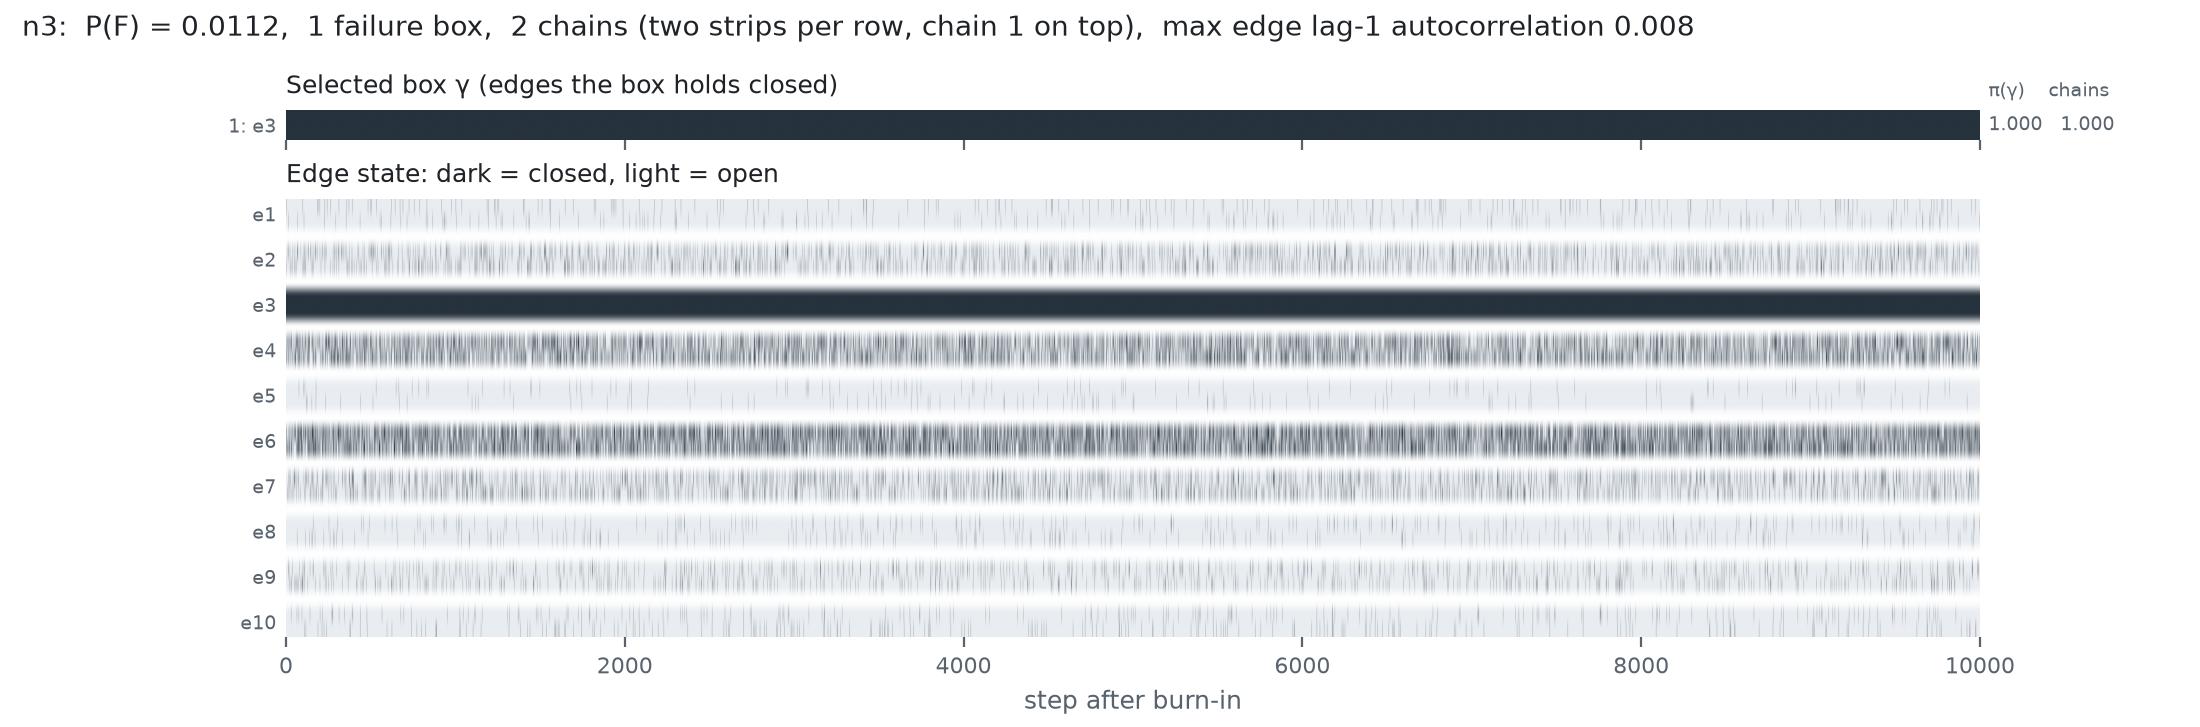
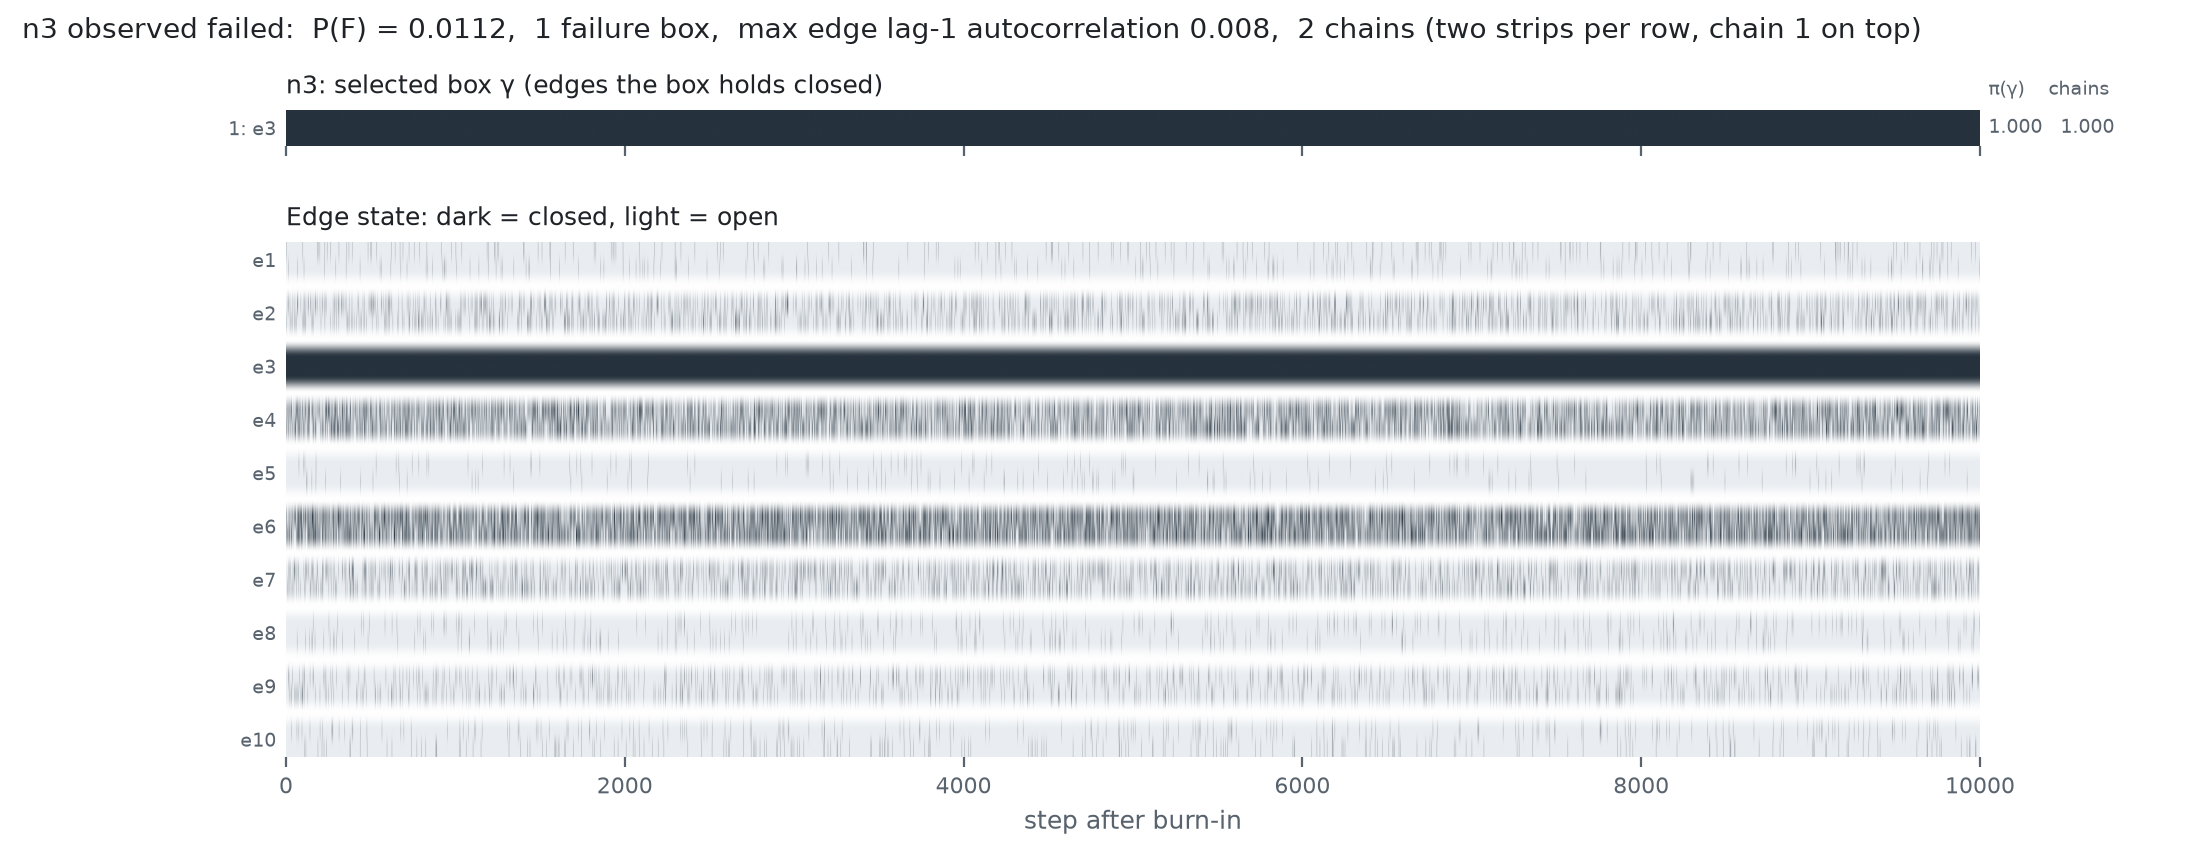
Add MCMC with several observed systems, with toy-ca cases
init_multi starts each chain in the intersection of one box per observed
system; step_multi sweeps the systems one by one, redrawing that system's
gamma, proposing inside every system's current box and accepting with the
product of overlap counts. With one system it reduces to proposal + accept.

Tests check the start points, an inconsistent pair of observations, the
reduction to the single-system step, and the two-system target on Figure 1.
demos/toy_ca_mcmc/run_multi.py runs n4+n6 and n4+n6+n7 observed failed
against exact enumeration; plot_traces.py draws one gamma panel per system.

diff --git a/demos/toy_ca_mcmc/plot_traces.py b/demos/toy_ca_mcmc/plot_traces.py
@@ -1,11 +1,12 @@
-"""Trace plots of the selected box (gamma) and every edge state, one figure per origin
-(traces_<origin>.png, from traces.pt).
+"""Trace plots of the selected boxes (gamma) and every edge state, one figure per case:
+traces_<origin>.png from traces.pt (one observed system) and traces_<n4+n6...>.png from
+traces_multi.pt (several), whichever exist.
 
-Both panels use the same strips: one row per box or edge, one strip per chain (chain 1 on
+All panels use the same strips: one row per box or edge, one strip per chain (chain 1 on
 top), dark over the steps where it holds.
-    Top, selected box:  dark where the chain proposed from that box. The right margin gives
-                        the exact pi(gamma = r) and the share of steps both chains spent there.
-    Bottom, edge state: dark = closed, light = open.
+    Selected box, one panel per observed system: dark where the chain held that box. The right
+        margin gives the exact pi(gamma = r) and the share of steps both chains spent there.
+    Edge state: dark = closed, light = open.
 A well-mixed chain visits the boxes in proportion to pi(gamma); long solid blocks show a
 chain staying in one box, and its free edges turn to speckle while the box's edges stay dark.
 
@@ -19,9 +20,6 @@ import torch
 from matplotlib.colors import ListedColormap
 
 HERE = Path(__file__).resolve().parent
-data = torch.load(HERE / "traces.pt")
-edges, traces, results = data["edges"], data["traces"], data["results"]
-
 DARK, LIGHT, GAP, INK, MUTED = "#26323d", "#e9edf1", "#ffffff", "#1f2328", "#59636e"
 cmap = ListedColormap([LIGHT, DARK])
 cmap.set_bad(GAP)
@@ -35,44 +33,57 @@ def strips(ax, dark, labels):
         img[k * (C + 1): k * (C + 1) + C] = dark[:, :, k].T
     ax.imshow(img, aspect="auto", cmap=cmap, vmin=0, vmax=1, interpolation="antialiased",
               extent=(0, T, img.shape[0], 0))
-    ax.set_yticks([k * (C + 1) + C / 2 for k in range(K)], labels, fontsize=7, color=MUTED)
+    ys = [k * (C + 1) + C / 2 for k in range(K)]
+    ax.set_yticks(ys, labels, fontsize=7, color=MUTED)
     ax.tick_params(axis="y", length=0)
     ax.tick_params(axis="x", colors=MUTED, labelsize=8)
     for s in ax.spines.values():
         s.set_visible(False)
-    return [k * (C + 1) + C / 2 for k in range(K)]
+    return ys
 
 
-for origin, tr in traces.items():
-    x, gamma = tr["x"].numpy(), tr["gamma"].long()
+def plot(name, x, gammas, boxes, label_exact, systems, title, edges):
+    """x (T, C, n) edge states, 1 = open; gammas, boxes, label_exact: one entry per system."""
     T, C, n = x.shape
-    R = len(tr["boxes"])
-    rows_g, rows_x = R * (C + 1) - 1, n * (C + 1) - 1
-    fig, (ax_g, ax_x) = plt.subplots(
-        2, 1, figsize=(11, 1.0 + 0.085 * (rows_g + rows_x)), sharex=True,
-        gridspec_kw={"height_ratios": [rows_g, rows_x], "hspace": 0.25})
+    rows = [len(b) * (C + 1) - 1 for b in boxes] + [n * (C + 1) - 1]
+    fig, axes = plt.subplots(len(rows), 1, figsize=(11, 1.0 + 0.085 * sum(rows) + 0.3 * len(rows)),
+                             sharex=True, gridspec_kw={"height_ratios": rows, "hspace": 0.35})
     fig.patch.set_facecolor(GAP)
-
-    selected = torch.nn.functional.one_hot(gamma, R).numpy().astype(bool)     # (T, C, R)
-    box_labels = [f"{r + 1}: {' '.join(b)}" for r, b in enumerate(tr["boxes"])]
-    ys = strips(ax_g, selected, box_labels)
-    share = selected.mean(axis=(0, 1))
-    for y, p, q in zip(ys, tr["label_exact"], share):
-        ax_g.text(T * 1.005, y, f"{p:.3f}   {q:.3f}", va="center", fontsize=7, color=MUTED)
-    ax_g.text(T * 1.005, -0.6, "π(γ)    chains", va="bottom", fontsize=7, color=MUTED)
-    ax_g.set_title("Selected box γ (edges the box holds closed)", loc="left", fontsize=9, color=INK)
-
-    strips(ax_x, x == 0, edges)
-    ax_x.set_title("Edge state: dark = closed, light = open", loc="left", fontsize=9, color=INK)
-    ax_x.set_xlabel("step after burn-in", fontsize=9, color=MUTED)
-
-    r = results[origin]
-    fig.suptitle(f"{origin}:  P(F) = {r['P_F']:.4f},  {R} failure box{'es' * (R > 1)},  {C} chains "
-                 f"(two strips per row, chain 1 on top),  max edge lag-1 autocorrelation "
-                 f"{r['rho1_edge_max']:.3f}", x=0.01, ha="left", fontsize=10, color=INK)
+    for ax, gamma, b, pi, system in zip(axes, gammas, boxes, label_exact, systems):
+        selected = torch.nn.functional.one_hot(gamma.long(), len(b)).numpy().astype(bool)
+        ys = strips(ax, selected, [f"{r + 1}: {' '.join(e)}" for r, e in enumerate(b)])
+        for y, p, q in zip(ys, pi, selected.mean(axis=(0, 1))):
+            ax.text(T * 1.005, y, f"{p:.3f}   {q:.3f}", va="center", fontsize=7, color=MUTED)
+        ax.text(T * 1.005, -0.6, "π(γ)    chains", va="bottom", fontsize=7, color=MUTED)
+        ax.set_title(f"{system}: selected box γ (edges the box holds closed)", loc="left",
+                     fontsize=9, color=INK)
+    strips(axes[-1], x == 0, edges)
+    axes[-1].set_title("Edge state: dark = closed, light = open", loc="left", fontsize=9, color=INK)
+    axes[-1].set_xlabel("step after burn-in", fontsize=9, color=MUTED)
+    fig.suptitle(f"{title},  {C} chains (two strips per row, chain 1 on top)",
+                 x=0.01, ha="left", fontsize=10, color=INK)
     fig.subplots_adjust(left=0.13, right=0.90, top=1 - 0.55 / fig.get_figheight(),
                         bottom=0.45 / fig.get_figheight())
-    out = HERE / f"traces_{origin}.png"
+    out = HERE / f"traces_{name}.png"
     fig.savefig(out, dpi=200, facecolor=GAP)
     plt.close(fig)
     print("wrote", out)
+
+
+if (HERE / "traces.pt").exists():                                       # one observed system
+    data = torch.load(HERE / "traces.pt")
+    for o, tr in data["traces"].items():
+        r = data["results"][o]
+        title = (f"{o} observed failed:  P(F) = {r['P_F']:.4f},  {r['n_refs']} failure "
+                 f"box{'es' * (r['n_refs'] > 1)},  max edge lag-1 autocorrelation {r['rho1_edge_max']:.3f}")
+        plot(o, tr["x"].numpy(), [tr["gamma"]], [tr["boxes"]], [tr["label_exact"]], [o], title,
+             data["edges"])
+
+if (HERE / "traces_multi.pt").exists():                                 # several observed systems
+    data = torch.load(HERE / "traces_multi.pt")
+    for name, tr in data["traces"].items():
+        r = data["results"][name]
+        title = (f"{', '.join(r['systems'])} observed failed:  P(all fail) = {r['P_all_fail']:.4f},  "
+                 f"boxes {r['n_refs']},  max edge lag-1 autocorrelation {r['rho1_edge_max']:.3f}")
+        plot(name, tr["x"].numpy(), tr["gamma"], tr["boxes"], tr["label_exact"], tr["systems"],
+             title, data["edges"])

diff --git a/rsr/mcmc.py b/rsr/mcmc.py
@@ -10,6 +10,9 @@ so every step processes all chains at once.
 
 One step: x_new, gamma = proposal(x, ...); x, c, ok = accept(x_new, x, c, ...).
 run() repeats this and returns the traces; gamma and ok feed the monitoring functions.
+
+Several observed systems: x, gamma, c = init_multi(refs_list, ...), then
+x, gamma, c, ok = step_multi(x, gamma, c, refs_list, ...) per sweep; gamma, c, ok are (C, S).
 """
 
 import time
@@ -26,13 +29,23 @@ def _membership(x, refs):
     return res["violations_upper"] == 0                        # (C, R)
 
 
-def init(refs, n_chain, upper=False):
-    """Start chain k at the corner of box k mod R (Eq. 58): its lowest allowed
-    state per component for upper reference states, its highest for lower ones."""
-    box = refs[torch.arange(n_chain) % len(refs)].int()        # (C, n, M)
+def _corner(box, upper):
+    """One-hot corner of each box (C, n, M): the lowest allowed state per component
+    for upper reference states, the highest for lower ones."""
     M = box.shape[2]
     corner = box.argmax(dim=2) if upper else M - 1 - box.flip(2).argmax(dim=2)
-    x = torch.nn.functional.one_hot(corner, M).int()
+    return torch.nn.functional.one_hot(corner, M).int()
+
+
+def _draw(w, generator=None):
+    """x ~ w componentwise, for weights w (C, n, M); returns one-hot (C, n, M)."""
+    draw = torch.multinomial(w.reshape(-1, w.shape[2]).double(), 1, generator=generator)
+    return torch.nn.functional.one_hot(draw.reshape(w.shape[:2]), w.shape[2]).int()
+
+
+def init(refs, n_chain, upper=False):
+    """Start chain k at the corner of box k mod R (Eq. 58)."""
+    x = _corner(refs[torch.arange(n_chain) % len(refs)].int(), upper)
     return x, _membership(x, refs).sum(dim=1)
 
 
@@ -42,11 +55,7 @@ def proposal(x, refs, probs, generator=None):
     Returns x' and gamma (C,), the box index each chain proposed from."""
     chi = _membership(x, refs)
     gamma = torch.multinomial(chi.double(), 1, generator=generator).squeeze(1)
-
-    w = probs[None, :, :] * refs[gamma]                        # (C, n, M)
-    draw = torch.multinomial(w.reshape(-1, w.shape[2]).double(), 1, generator=generator)
-    x_new = torch.nn.functional.one_hot(draw.reshape(x.shape[:2]), x.shape[2]).int()
-    return x_new, gamma
+    return _draw(probs[None, :, :] * refs[gamma], generator), gamma
 
 
 def accept(x_new, x, c, refs, u=None, generator=None):
@@ -57,6 +66,46 @@ def accept(x_new, x, c, refs, u=None, generator=None):
         u = torch.rand(len(x), dtype=torch.float64, generator=generator)
     ok = u < (c / c_new).clamp(max=1.0)
     return torch.where(ok[:, None, None], x_new, x), torch.where(ok, c_new, c), ok
+
+
+# --- several observed systems: refs_list holds each system's reference states ---
+
+def _intersection(refs_list, gamma):
+    """The box each chain is held in: the intersection of every system's current box, (C, n, M)."""
+    box = refs_list[0][gamma[:, 0]].int()
+    for s in range(1, len(refs_list)):
+        box = box * refs_list[s][gamma[:, s]]
+    return box
+
+
+def init_multi(refs_list, n_chain, upper=False):
+    """Start chain k at the corner of the intersection of box k mod R_s of every system s.
+    Returns x, gamma (C, S) and c (C, S), c[:, s] = number of system s's boxes containing x."""
+    gamma = torch.stack([torch.arange(n_chain) % len(r) for r in refs_list], dim=1)
+    box = _intersection(refs_list, gamma)
+    if (box.sum(dim=2) == 0).any():
+        raise ValueError("the starting boxes of the systems do not intersect")
+    x = _corner(box, upper)
+    return x, gamma, torch.stack([_membership(x, r).sum(dim=1) for r in refs_list], dim=1)
+
+
+def step_multi(x, gamma, c, refs_list, probs, generator=None):
+    """One sweep over the systems. For each system s in turn: redraw gamma_s uniformly from
+    its boxes containing x (C.1), propose x' ~ p(. | x' in every system's current box), and
+    accept with min(1, prod_s c_s(x) / c_s(x')). With one system this is proposal + accept.
+    Returns x, gamma, c and ok (C, S), whether the move for each system was accepted."""
+    gamma, oks = gamma.clone(), []
+    for s, refs in enumerate(refs_list):
+        chi = _membership(x, refs)
+        gamma[:, s] = torch.multinomial(chi.double(), 1, generator=generator).squeeze(1)
+        x_new = _draw(probs[None, :, :] * _intersection(refs_list, gamma), generator)
+
+        c_new = torch.stack([_membership(x_new, r).sum(dim=1) for r in refs_list], dim=1)
+        u = torch.rand(len(x), dtype=torch.float64, generator=generator)
+        ok = u < (c.prod(dim=1) / c_new.prod(dim=1)).clamp(max=1.0)
+        x, c = torch.where(ok[:, None, None], x_new, x), torch.where(ok[:, None], c_new, c)
+        oks.append(ok)
+    return x, gamma, c, torch.stack(oks, dim=1)
 
 
 def run(refs, probs, n_chain, n_step, n_burn=0, n_thin=1, upper=False, generator=None):

diff --git a/demos/toy_ca_mcmc/run_multi.py b/demos/toy_ca_mcmc/run_multi.py
@@ -1,0 +1,91 @@
+"""rsr-mcmc on toy-ca with several systems observed failed: n4 and n6, then n4, n6 and n7.
+
+Each sweep processes the observed systems one by one (mcmc.step_multi): redraw that system's
+box gamma_s, propose inside every system's current box, accept by the product of overlap
+counts. The chains target p(x) restricted to the states that fail every observed system's
+failure boxes. All 1024 edge configurations are enumerated for the exact answers.
+
+    PYTHONPATH=. python demos/toy_ca_mcmc/run_multi.py      (then plot_traces.py)
+"""
+import json
+import time
+from pathlib import Path
+
+import torch
+
+from rsr import mcmc
+
+CASES = [("n4", "n6"), ("n4", "n6", "n7")]
+N_CHAIN, N_BURN, N_KEEP = 2, 200, 10_000
+HERE = Path(__file__).resolve().parent
+data = torch.load(HERE / "toy_ca.pt")
+probs, edges = data["probs"], data["edges"]
+states = (torch.arange(1024)[:, None] >> torch.arange(9, -1, -1)) & 1   # (1024, 10), as exported
+p_x = probs[torch.arange(10), states].prod(dim=1)
+
+
+def exact(refs_list, systems):
+    """pi(x) on the joint union, pi(gamma_s = r) per system, P(e_i closed | obs), P(all fail)."""
+    onehot = torch.nn.functional.one_hot(states, 2).int()
+    chis = [mcmc._membership(onehot, r) for r in refs_list]                 # (1024, R_s) each
+    inside = torch.stack([chi.any(dim=1) for chi in chis]).all(dim=0)
+    w = p_x * inside / (p_x * inside).sum()
+    return {
+        "P_all_fail": p_x[torch.stack([s == 0 for s in systems]).all(dim=0)].sum().item(),
+        "P_joint_union": (p_x * inside).sum().item(),
+        "label": [((w / chi.sum(dim=1).clamp(min=1))[:, None] * chi).sum(dim=0) for chi in chis],
+        "closed": (w[:, None] * (states == 0)).sum(dim=0),
+    }
+
+
+results, traces = {}, {}
+print(f"{N_CHAIN} chains, burn-in {N_BURN} sweeps, {N_KEEP} kept sweeps\n")
+for case in CASES:
+    name = "+".join(case)
+    refs_list = [data["refs_lower"][o] for o in case]
+    ex = exact(refs_list, [data["system"][o] for o in case])
+
+    g = torch.Generator().manual_seed(0)
+    t0 = time.perf_counter()
+    x, gamma, c = mcmc.init_multi(refs_list, N_CHAIN)
+    xs, gammas, oks = [], [], []
+    for t in range(N_BURN + N_KEEP):
+        x, gamma, c, ok = mcmc.step_multi(x, gamma, c, refs_list, probs, g)
+        if t >= N_BURN:
+            xs.append(x.argmax(dim=2).to(torch.int8))
+            gammas.append(gamma.to(torch.int16))
+            oks.append(ok)
+    sec = time.perf_counter() - t0
+    x, gamma, ok = torch.stack(xs), torch.stack(gammas), torch.stack(oks)  # (T, C, 10), (T, C, S) x2
+
+    closed = (x == 0).double().mean(dim=(0, 1))
+    rho_edge = torch.stack([mcmc.autocorrelation(x[..., i], max_lag=1)[0] for i in range(10)]).nan_to_num()
+    labels = [mcmc.label_frequency(gamma[..., s].long(), len(r)).mean(dim=0) for s, r in enumerate(refs_list)]
+    r = {
+        "systems": list(case), "n_refs": [len(r) for r in refs_list],
+        "P_all_fail": ex["P_all_fail"], "P_joint_union": ex["P_joint_union"],
+        "acceptance": [mcmc.acceptance_rate(ok[..., s]).mean().item() for s in range(len(case))],
+        "label_err": [(l - e).abs().max().item() for l, e in zip(labels, ex["label"])],
+        "rho1_edge_max": rho_edge.max().item(),
+        "closed_mcmc": closed.tolist(), "closed_exact": ex["closed"].tolist(),
+        "closed_err": (closed - ex["closed"]).abs().max().item(),
+        "ms_per_sweep": 1e3 * sec / (N_BURN + N_KEEP),
+    }
+    results[name] = r
+    traces[name] = {
+        "x": x, "gamma": [gamma[..., s] for s in range(len(case))],
+        "boxes": [[[e for e, free in zip(edges, refs[k, :, 1]) if not free] for k in range(len(refs))]
+                  for refs in refs_list],
+        "label_exact": [l.tolist() for l in ex["label"]], "systems": list(case),
+    }
+    print(f"{name}: boxes {r['n_refs']}, P(all fail) {r['P_all_fail']:.4f}, "
+          f"P(joint union) {r['P_joint_union']:.4f}, {r['ms_per_sweep']:.2f} ms/sweep")
+    print(f"  acceptance per system {[round(a, 3) for a in r['acceptance']]}, "
+          f"|label - pi| per system {[round(e, 4) for e in r['label_err']]}")
+    print(f"  max edge lag-1 autocorrelation {r['rho1_edge_max']:.3f}, "
+          f"max |P(closed | obs) error| {r['closed_err']:.4f}")
+    print("  P(e_i closed | obs) exact:", dict(zip(edges, ex["closed"].numpy().round(3))))
+
+(HERE / "results_multi.json").write_text(json.dumps(results, indent=2) + "\n")
+torch.save({"edges": edges, "traces": traces, "results": results}, HERE / "traces_multi.pt")
+print(f"\nwrote {HERE / 'results_multi.json'} and traces_multi.pt")

diff --git a/tests/test_mcmc.py b/tests/test_mcmc.py
@@ -238,3 +238,55 @@ def test_run_times_each_function():
     *_, sec = run(LOWER, upper=False)
     assert set(sec) == {"init", "proposal", "accept"}
     assert sec["proposal"] > 0 and sec["accept"] > 0
+
+
+# --- several observed systems on Figure 1: LOWER is system 1's failure boxes ---
+X1_FAILS = torch.tensor([[[1, 0], [1, 1], [1, 1]]], dtype=torch.int32)         # x1 <= 0
+X1_OR_X2_FAILS = torch.tensor([
+    [[1, 0], [1, 1], [1, 1]],                                                   # x1 <= 0
+    [[1, 1], [1, 0], [1, 1]],                                                   # x2 <= 0
+], dtype=torch.int32)
+
+
+def test_init_multi_starts_in_the_intersection_of_the_boxes():
+    # chain 1: system 1 box 1 (x1 = x3 = 0) and x1 = 0 -> corner (0,1,0), in box 1 only: c = (1, 1)
+    # chain 2: system 1 box 2 (x2 = x3 = 0) and x1 = 0 -> (0,0,0), in both boxes:       c = (2, 1)
+    x, gamma, c = mcmc.init_multi([LOWER, X1_FAILS], n_chain=2)
+    assert torch.equal(x, onehot((0, 1, 0), (0, 0, 0)))
+    assert torch.equal(gamma, torch.tensor([[0, 0], [1, 0]]))
+    assert torch.equal(c, torch.tensor([[1, 1], [2, 1]]))
+
+
+def test_init_multi_rejects_observations_that_cannot_hold_together():
+    # Failure box 1 needs x1 = 0, survival box 1 needs x1 = 1: no state satisfies both.
+    import pytest
+    with pytest.raises(ValueError):
+        mcmc.init_multi([LOWER, UPPER], n_chain=1)
+
+
+def test_step_multi_with_one_system_is_proposal_then_accept():
+    x, c = mcmc.init(LOWER, n_chain=1000)
+    g1, g2 = torch.Generator().manual_seed(0), torch.Generator().manual_seed(0)
+    x_new, gamma = mcmc.proposal(x, LOWER, PROBS, g1)
+    x1, c1, ok1 = mcmc.accept(x_new, x, c, LOWER, generator=g1)
+    x2, gamma2, c2, ok2 = mcmc.step_multi(x, torch.zeros(1000, 1, dtype=torch.long), c[:, None],
+                                          [LOWER], PROBS, g2)
+    assert torch.equal(x1, x2) and torch.equal(c1, c2[:, 0]) and torch.equal(ok1, ok2[:, 0])
+    assert torch.equal(gamma, gamma2[:, 0])
+
+
+def test_step_multi_samples_p_given_both_systems_fail():
+    # System 1 fails on {000, 010, 100}; system 2 (x1 = 0 or x2 = 0) on every state with a 0
+    # in x1 or x2, which contains all three. So the target is p restricted to {000, 010, 100}:
+    #   pi(000) = 0.001 / 0.019 = 1/19,  pi(010) = pi(100) = 0.009 / 0.019 = 9/19.
+    # 000 has c = (2, 2), 010 and 100 have c = (1, 1): the acceptance must use both counts.
+    refs_list = [LOWER, X1_OR_X2_FAILS]
+    g = torch.Generator().manual_seed(0)
+    x, gamma, c = mcmc.init_multi(refs_list, n_chain=10_000)
+    xs = []
+    for t in range(20):
+        x, gamma, c, _ = mcmc.step_multi(x, gamma, c, refs_list, PROBS, g)
+        if t >= 5:
+            xs.append(x)
+    exact = torch.tensor([1, 0, 9, 0, 9, 0, 0, 0], dtype=torch.float64) / 19
+    assert torch.allclose(state_frequency(torch.stack(xs)), exact, atol=0.01)
